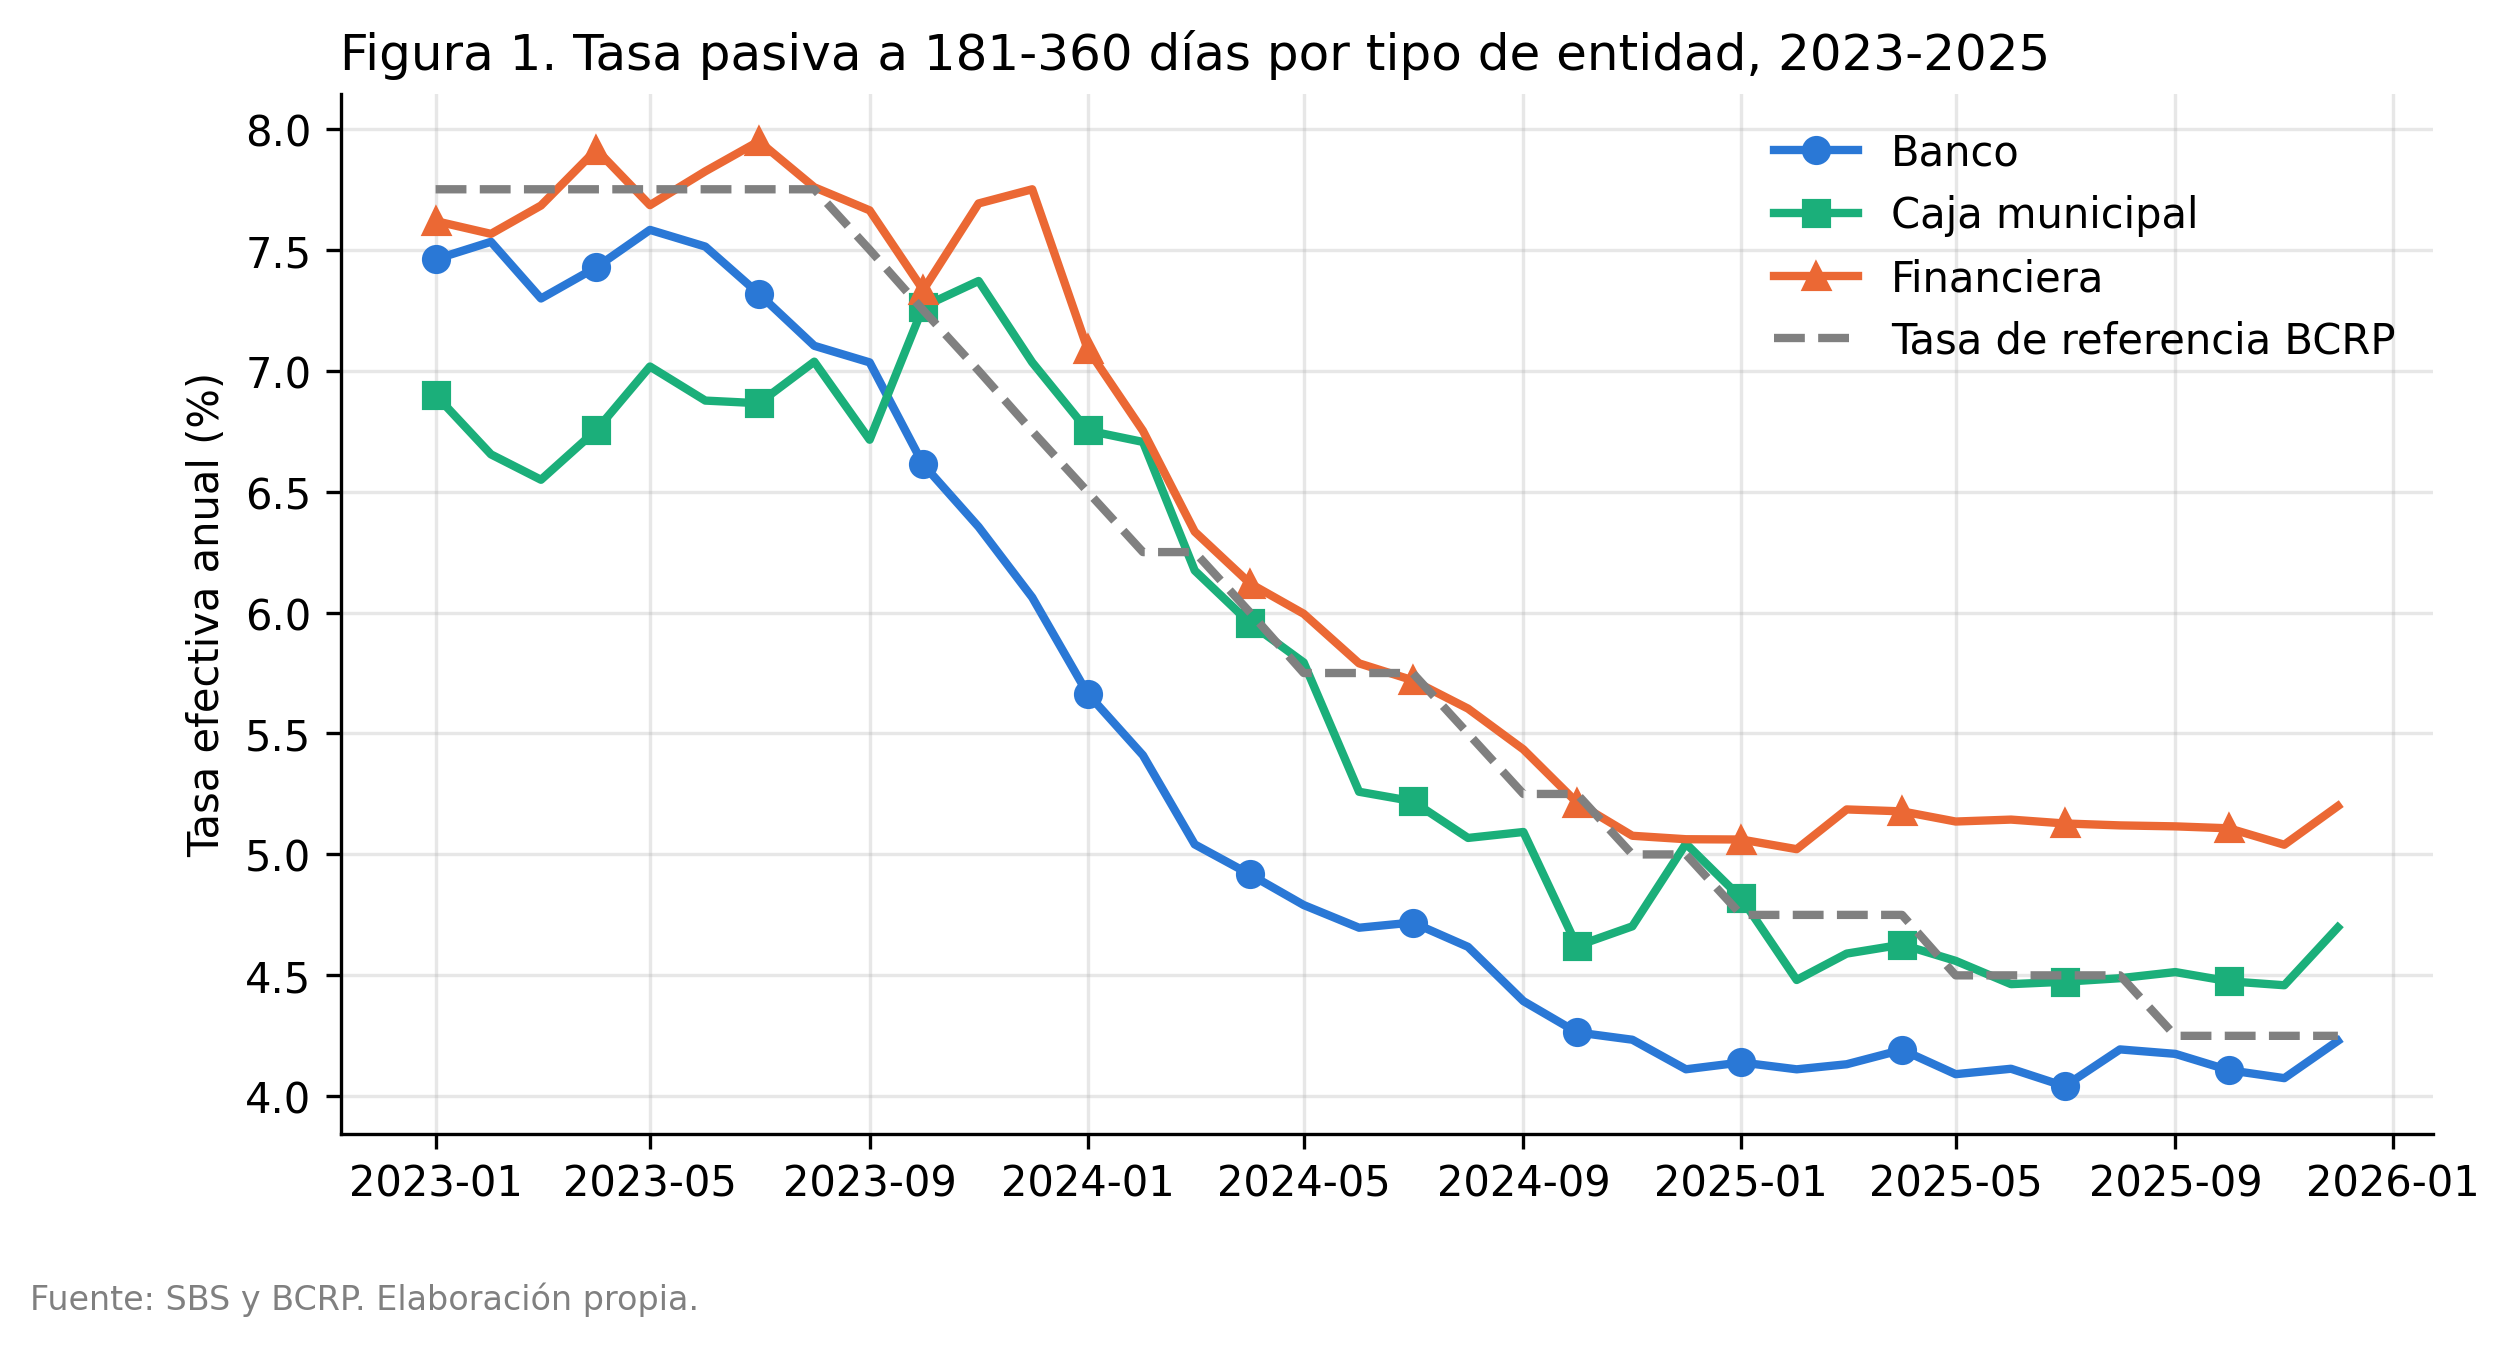
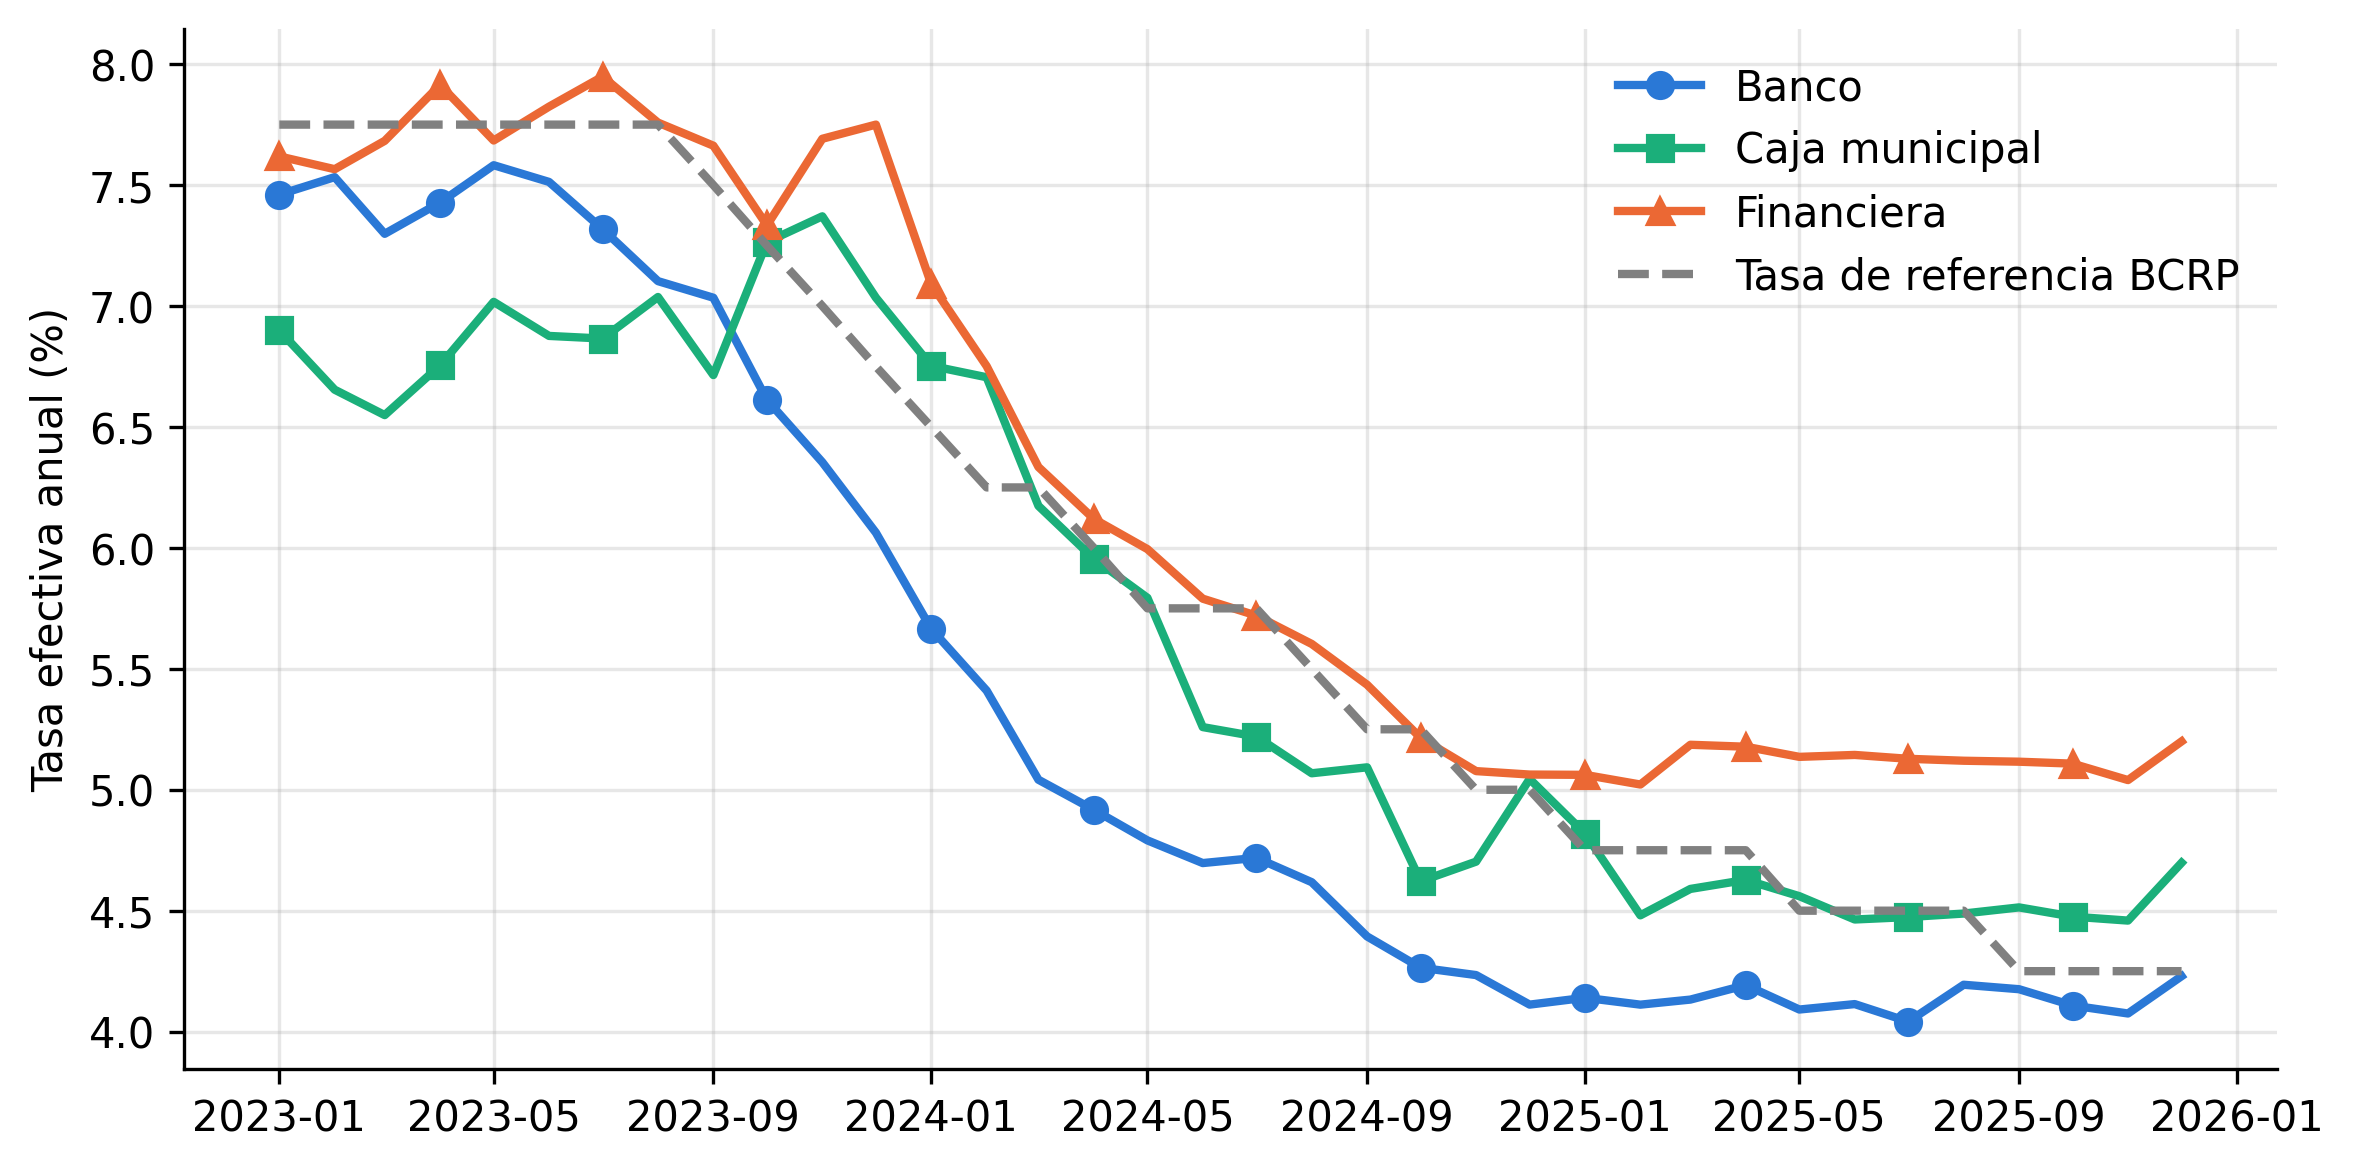
Commit 4: figuras en formato APA y verificacion de reproducibilidad

diff --git a/codigo/04_analisis.py b/codigo/04_analisis.py
@@ -170,10 +170,8 @@ for tipo in ORDEN:
     ax.plot(mensual.index, mensual[tipo], color=COLOR[tipo], marker=MARCA[tipo], markevery=3, linewidth=2, label=tipo)
 ax.plot(referencia.index, referencia, color="gray", linestyle="--", linewidth=2, label="Tasa de referencia BCRP")
 ax.set_ylabel("Tasa efectiva anual (%)")
-ax.set_title("Figura 1. Tasa pasiva a 181-360 días por tipo de entidad, 2023-2025", loc="left")
 ax.legend(frameon=False)
 estilo(ax)
-fig.text(0.01, -0.02, "Fuente: SBS y BCRP. Elaboración propia.", fontsize=8, color="gray")
 fig.savefig(SALIDAS / "figura1_tasas_en_el_tiempo.png", dpi=300, bbox_inches="tight")
 plt.close(fig)
 
@@ -186,10 +184,8 @@ for tipo in ORDEN:
 ax.axhline(0, color="gray", linestyle="--", linewidth=1)
 ax.set_xlabel("Morosidad (%)")
 ax.set_ylabel("Diferencial: tasa de la entidad − tasa BCRP (p.p.)")
-ax.set_title("Figura 2. Diferencial de la tasa pasiva y morosidad", loc="left")
 ax.legend(frameon=False)
 estilo(ax)
-fig.text(0.01, -0.02, "Fuente: SBS y BCRP. Cada punto es una entidad en un mes.", fontsize=8, color="gray")
 fig.savefig(SALIDAS / "figura2_diferencial_vs_morosidad.png", dpi=300, bbox_inches="tight")
 plt.close(fig)
 
@@ -201,10 +197,8 @@ for barra, valor in zip(barras, intereses):
     ax.text(barra.get_x() + barra.get_width() / 2, valor + 10, f"S/ {valor:,.2f}", ha="center", fontsize=10)
 ax.set_ylabel("Intereses ganados en un año (S/)")
 ax.set_ylim(0, intereses.max() * 1.18)
-ax.set_title(f"Figura 3. Intereses de un depósito de S/ {P:,} a {N_DIAS} días".replace(",", " "), loc="left")
 estilo(ax)
 ax.grid(axis="x", visible=False)
-fig.text(0.01, -0.02, "VF = P(1 + TEA)^(n/360). Fuente: SBS, 2023-2025. Elaboración propia.", fontsize=8, color="gray")
 fig.savefig(SALIDAS / "figura3_intereses_por_tipo.png", dpi=300, bbox_inches="tight")
 plt.close(fig)
 escribir_log("Figuras 1, 2 y 3 guardadas en salidas/")

diff --git a/README.md b/README.md
@@ -47,3 +47,7 @@ salidas/           tablas (CSV) y figuras (PNG) del artículo
 log_ejecucion.txt  fecha, hora, código HTTP y filas de cada extracción
 diccionario_variables.md, requirements.txt, .env.example, bitacora_ia.md
 ~~~
+
+## Verificación de reproducibilidad
+
+El 25 de setiembre de 2026 se clonó el repositorio en una carpeta limpia de Google Colab, se instalaron las librerías de requirements.txt y se ejecutaron 01_extraccion_api.py, 03_limpieza_datos.py y 04_analisis.py. El hash SHA-256 del archivo procesado regenerado coincidió exactamente con el declarado, y 04_analisis.py produjo las mismas tablas y figuras. El 26 de setiembre de 2026 se ajustaron las figuras al formato APA 7 (título y nota fuera de la imagen, en el artículo).
